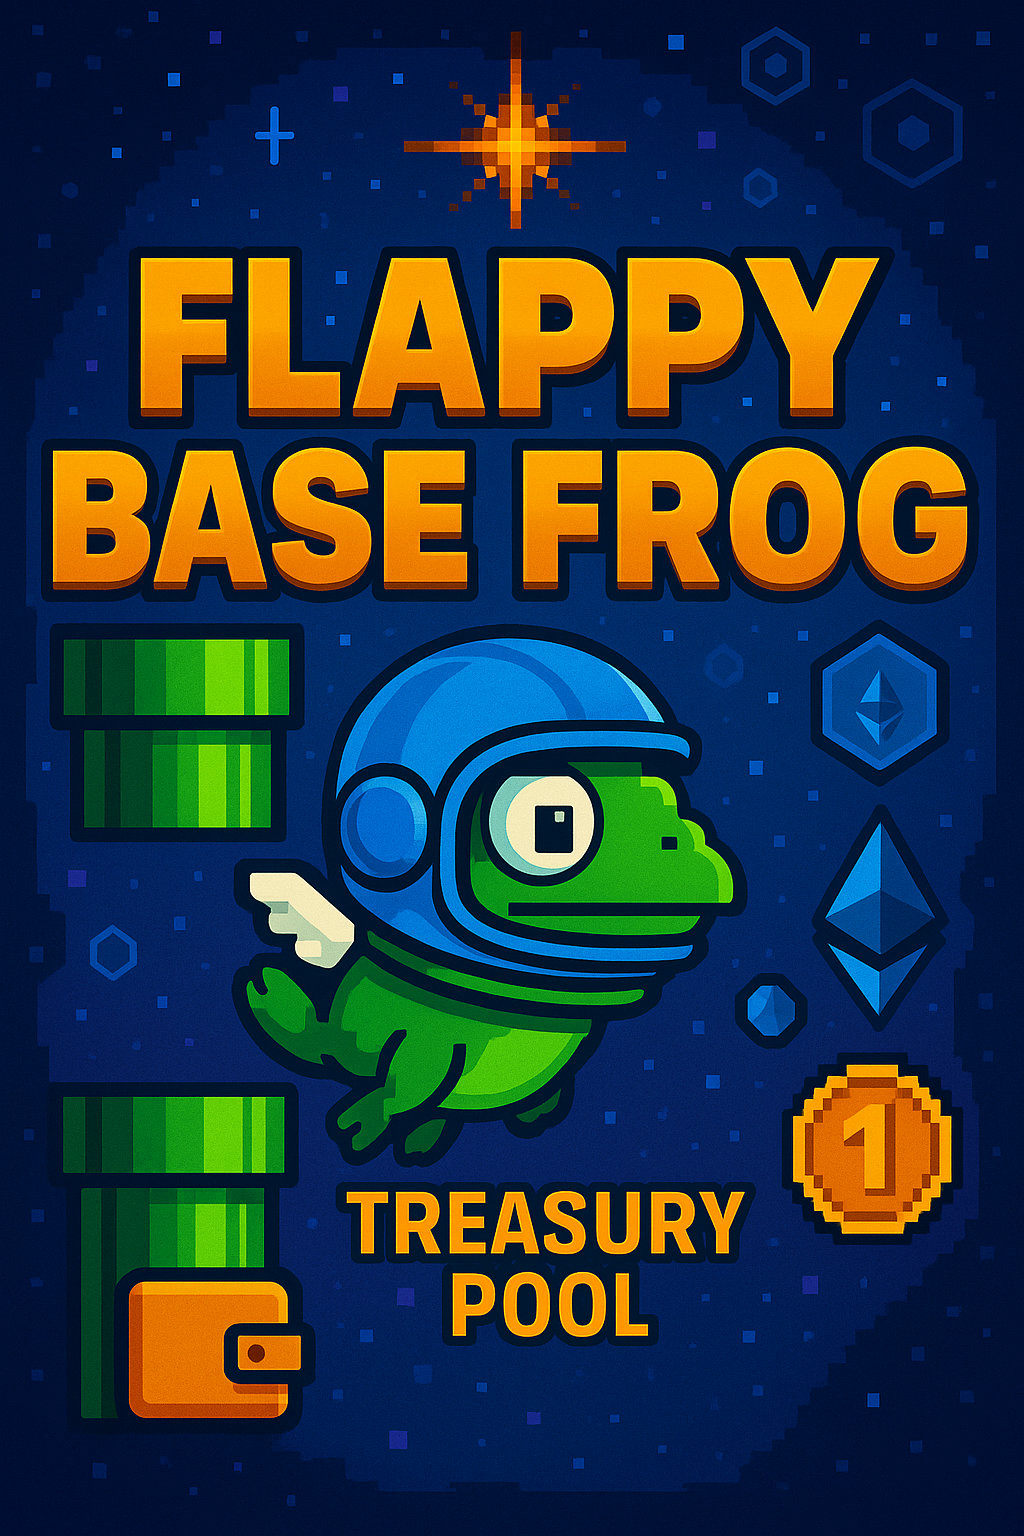
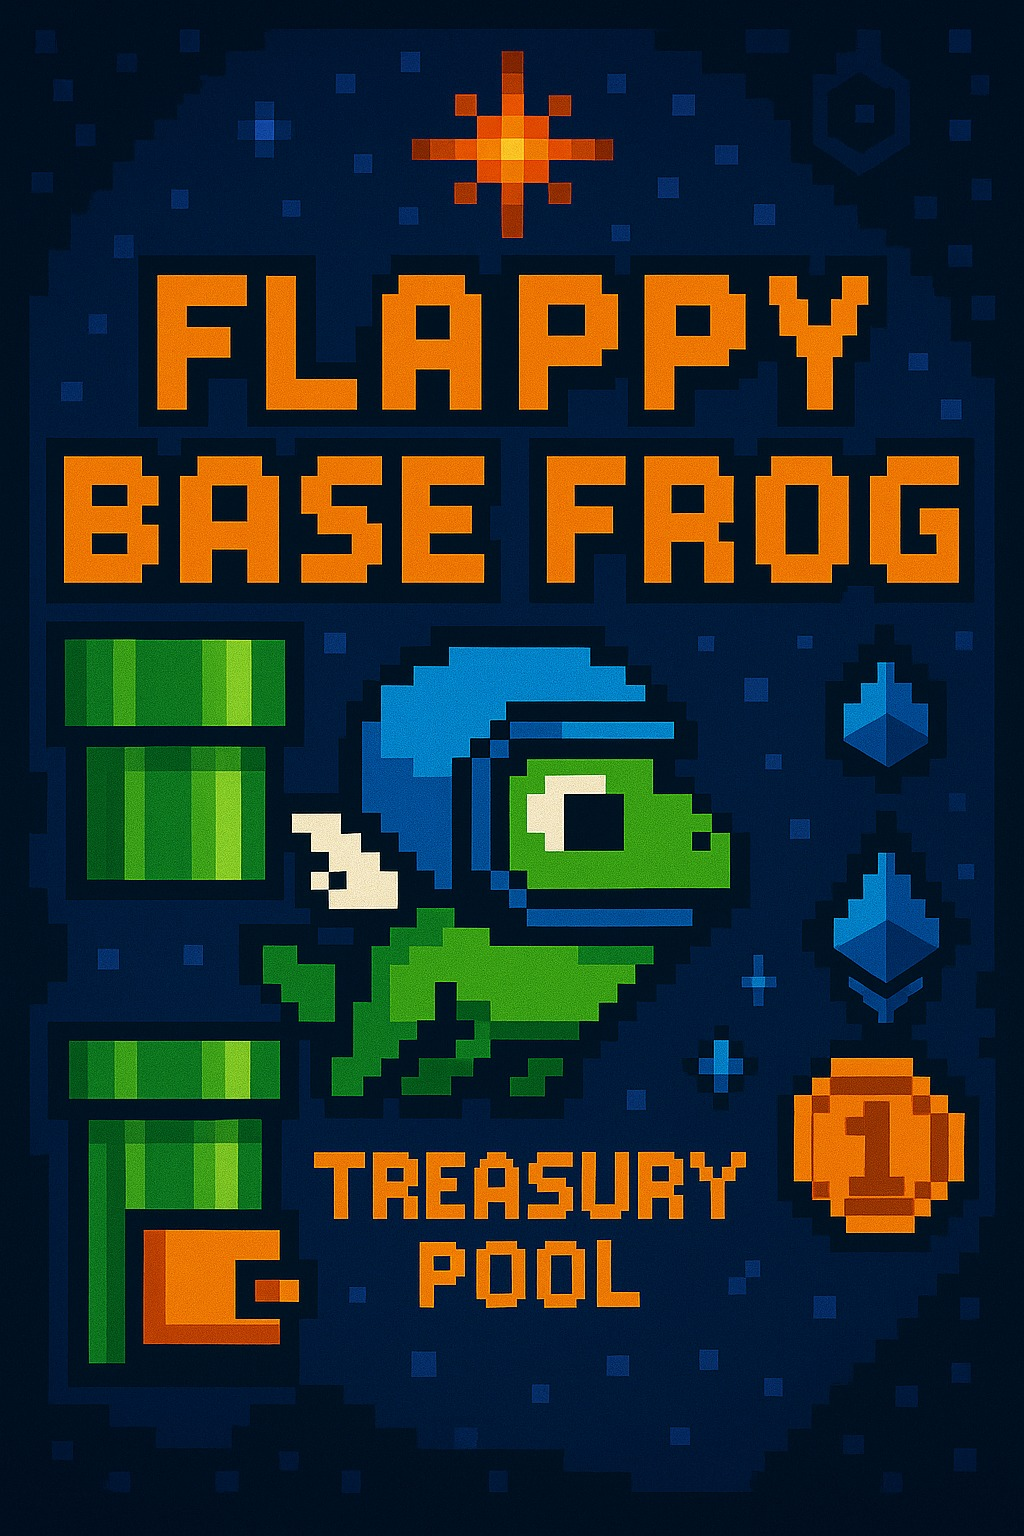
update poster and change hover color

diff --git a/components/flappy-frog.tsx b/components/flappy-frog.tsx
@@ -104,7 +104,7 @@ export function FlappyFrog({ fid, displayName }: FlappyFrogProps) {
                 frameWidth: 6,
                 frameHeight: 6,
               },
-            )
+            );
             this.load.image("heartFull", "assets/hearts/heart-full.png");
             this.load.image("heartEmpty", "assets/hearts/heart-empty.png");
             this.load.image("tubeTop", "assets/tubes/tube-top.png");
@@ -885,13 +885,10 @@ export function FlappyFrog({ fid, displayName }: FlappyFrogProps) {
 
               this.anims.create({
                 key: "loading",
-                frames: this.anims.generateFrameNumbers(
-                  "loadingSpriteSheet",
-                  {
-                    start: 0,
-                    end: 7,
-                  },
-                ),
+                frames: this.anims.generateFrameNumbers("loadingSpriteSheet", {
+                  start: 0,
+                  end: 7,
+                }),
                 frameRate: 4,
                 repeat: -1,
               });
@@ -911,7 +908,6 @@ export function FlappyFrog({ fid, displayName }: FlappyFrogProps) {
               if (paymentResult) {
                 await resetGame(fid);
               }
-
             });
             payButton.on("pointerover", () => {
               payButton.setFillStyle(0x5d9639);
@@ -1185,13 +1181,7 @@ export function FlappyFrog({ fid, displayName }: FlappyFrogProps) {
 
             // User address.
             this.add
-              .bitmapText(
-                30,
-                50,
-                "letters",
-                `Address: ${formattedAddress}`,
-                12,
-              )
+              .bitmapText(30, 50, "letters", `Address: ${formattedAddress}`, 12)
               .setOrigin(0, 0.5)
               .setTint(0xffffff)
               .setDepth(100);
@@ -1218,7 +1208,6 @@ export function FlappyFrog({ fid, displayName }: FlappyFrogProps) {
         };
 
         class NavigationScene extends Phaser.Scene {
-
           private buttons: {
             gameButton: NavigationButton;
             rankingButton: NavigationButton;
@@ -1236,7 +1225,7 @@ export function FlappyFrog({ fid, displayName }: FlappyFrogProps) {
             this.load.bitmapFont(
               "letters",
               "assets/fonts/letters/letters.png",
-              "assets/fonts/letters/letters.xml"
+              "assets/fonts/letters/letters.xml",
             );
 
             // Icons.
@@ -1254,7 +1243,7 @@ export function FlappyFrog({ fid, displayName }: FlappyFrogProps) {
               height - 30,
               width,
               60,
-              0xcaaa77
+              0xcaaa77,
             );
             navBarBg.setOrigin(0.5, 0.5);
             navBarBg.setDepth(100);
@@ -1264,7 +1253,7 @@ export function FlappyFrog({ fid, displayName }: FlappyFrogProps) {
               iconKey: string,
               label: string,
               sceneKey: string,
-              tabKey: string
+              tabKey: string,
             ) => {
               const isActive = this.activeTab === tabKey;
 
@@ -1277,7 +1266,7 @@ export function FlappyFrog({ fid, displayName }: FlappyFrogProps) {
                 height - 30,
                 width * (1 / 3),
                 60,
-                btnColor
+                btnColor,
               );
               btn.setOrigin(0.5, 0.5);
               btn.setStrokeStyle(2, 0x7f563b);
@@ -1288,7 +1277,7 @@ export function FlappyFrog({ fid, displayName }: FlappyFrogProps) {
               const icon = this.add.sprite(
                 width * position,
                 height - 38,
-                iconKey
+                iconKey,
               );
               icon.setTintFill(isActive ? 0xcaaa77 : 0x7f563b);
               icon.setDepth(100);
@@ -1302,9 +1291,11 @@ export function FlappyFrog({ fid, displayName }: FlappyFrogProps) {
 
               // Hover events.
               btn.on("pointerover", () => {
-                btn.setFillStyle(0x7f563b);
-                icon.setTintFill(0xcaaa77);
-                text.setTintFill(0xcaaa77);
+                if (this.activeTab !== tabKey) {
+                  btn.setFillStyle(0xb27752);
+                  icon.setTintFill(0xcaaa77);
+                  text.setTintFill(0xcaaa77);
+                }
               });
 
               btn.on("pointerout", () => {
@@ -1332,9 +1323,27 @@ export function FlappyFrog({ fid, displayName }: FlappyFrogProps) {
 
             // Buttons.
             this.buttons = {
-              gameButton: createButton(1 / 6, "gameIcon", "GAME", "FlappyFrogScene", "game"),
-              rankingButton: createButton(3 / 6, "rankingIcon", "RANKING", "RankingScene", "ranking"),
-              userButton: createButton(5 / 6, "userIcon", "USER", "UserScene", "user")
+              gameButton: createButton(
+                1 / 6,
+                "gameIcon",
+                "GAME",
+                "FlappyFrogScene",
+                "game",
+              ),
+              rankingButton: createButton(
+                3 / 6,
+                "rankingIcon",
+                "RANKING",
+                "RankingScene",
+                "ranking",
+              ),
+              userButton: createButton(
+                5 / 6,
+                "userIcon",
+                "USER",
+                "UserScene",
+                "user",
+              ),
             };
 
             // Make sure the initial scene is active (GameScene, by default.)
@@ -1344,7 +1353,7 @@ export function FlappyFrog({ fid, displayName }: FlappyFrogProps) {
           switchToScene(sceneKey: string) {
             // Put all game scenes to sleep except the target one.
             const gameScenes = ["FlappyFrogScene", "RankingScene", "UserScene"];
-            gameScenes.forEach(scene => {
+            gameScenes.forEach((scene) => {
               if (scene !== sceneKey) {
                 if (this.scene.isActive(scene)) {
                   this.scene.sleep(scene);
@@ -1369,7 +1378,7 @@ export function FlappyFrog({ fid, displayName }: FlappyFrogProps) {
             const { gameButton, rankingButton, userButton } = this.buttons;
 
             // Reset all buttons.
-            [gameButton, rankingButton, userButton].forEach(button => {
+            [gameButton, rankingButton, userButton].forEach((button) => {
               button.btn.setFillStyle(0xcaaa77);
               button.icon.setTintFill(0x7f563b);
               button.text.setTintFill(0x7f563b);
@@ -1404,7 +1413,7 @@ export function FlappyFrog({ fid, displayName }: FlappyFrogProps) {
           pixelArt: true,
           scale: {
             mode: Phaser.Scale.FIT,
-            autoCenter: Phaser.Scale.CENTER_BOTH
+            autoCenter: Phaser.Scale.CENTER_BOTH,
           },
           physics: {
             default: "arcade",
@@ -1426,8 +1435,8 @@ export function FlappyFrog({ fid, displayName }: FlappyFrogProps) {
 
         // Start NavigationScene.
         const game = gameInstanceRef.current;
-        game.scene.start('NavigationScene');
-        game.scene.start('FlappyFrogScene');
+        game.scene.start("NavigationScene");
+        game.scene.start("FlappyFrogScene");
       }
     };
 

diff --git a/app/page.tsx b/app/page.tsx
@@ -10,7 +10,7 @@ const Game = dynamic(
   () => import("@/components/game").then((mod) => mod.Game),
   {
     ssr: false,
-    loading: () => <Loading />,
+    loading: () => <Loading  />,
   },
 );
 
